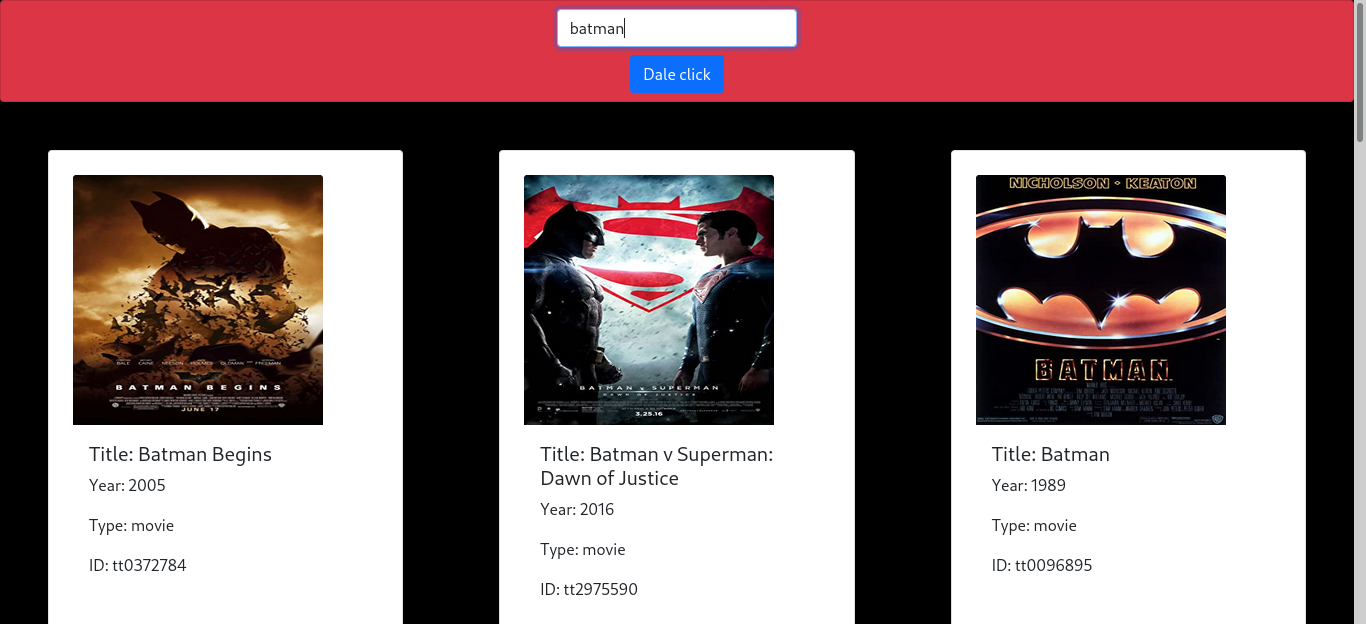
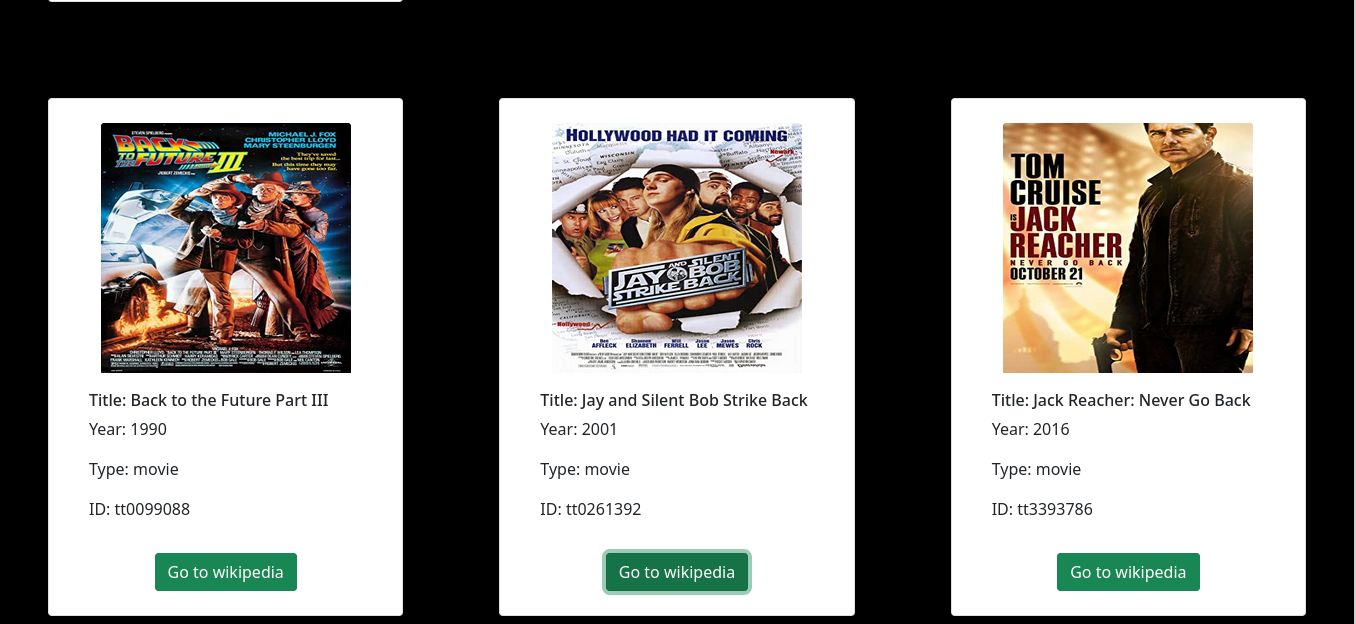
update

diff --git a/src/Components/Movies.jsx b/src/Components/Movies.jsx
@@ -12,23 +12,28 @@ const Movies = (prop) => {
         Img,
         imbdID ? (
           <div className="card m-5">
-            <div className="card-body m-2">
-              <img
-                src={Img}
-                alt=""
-                className="card-img-top"
-                style={{ width: "250px", height: "250px" }}
-              />
+            <div className="card-body m-2" >
+              <div className="d-flex justify-content-center">
+                <img
+                  src={Img}
+                  alt=""
+                  className="card-img-top"
+                  style={{ width: "250px", height: "250px" }}
+                />
+              </div>
               <div className="card-body">
-                <h5>Title: {Title}</h5>
+                <h6>Title: {Title}</h6>
                 <p>Year: {Year}</p>
                 <p>Type: {Type}</p>
                 <p>ID: {imbdID}</p>
               </div>
+              <div className="d-flex justify-content-center">
+                <a className="btn btn-success" href={`https://es.wikipedia.org/wiki/${Title}`} target="blank">Go to wikipedia</a>
+              </div>
             </div>
           </div>
         ) : (
-          ''
+          ""
         ))
       }
     </div>

diff --git a/src/app.js b/src/app.js
@@ -5,11 +5,20 @@ const axios = require("axios").default;
 const App = () => {
   const [Datos, setDatos] = useState([{}]);
 
+  const {REACT_APP_API_KEY} = process.env
+
   const getDatos = (e) => {
     setDatos([])
     e.preventDefault();
     const Valor = e.target[0].value;
-    axios(`http://www.omdbapi.com/?s=${Valor}&plot=full&apikey=db85efbd`)
+    axios({
+      method: "get",
+      url: "http://www.omdbapi.com",
+      params: {
+        s: Valor,
+        apikey: REACT_APP_API_KEY
+      }
+    })
       .then((result) => {
         result.data.Search.map((value) =>
         setDatos(x => [...x, {
@@ -24,6 +33,7 @@ const App = () => {
       .catch((err) => {
         console.log(err);
       });
+
   };
 
 
